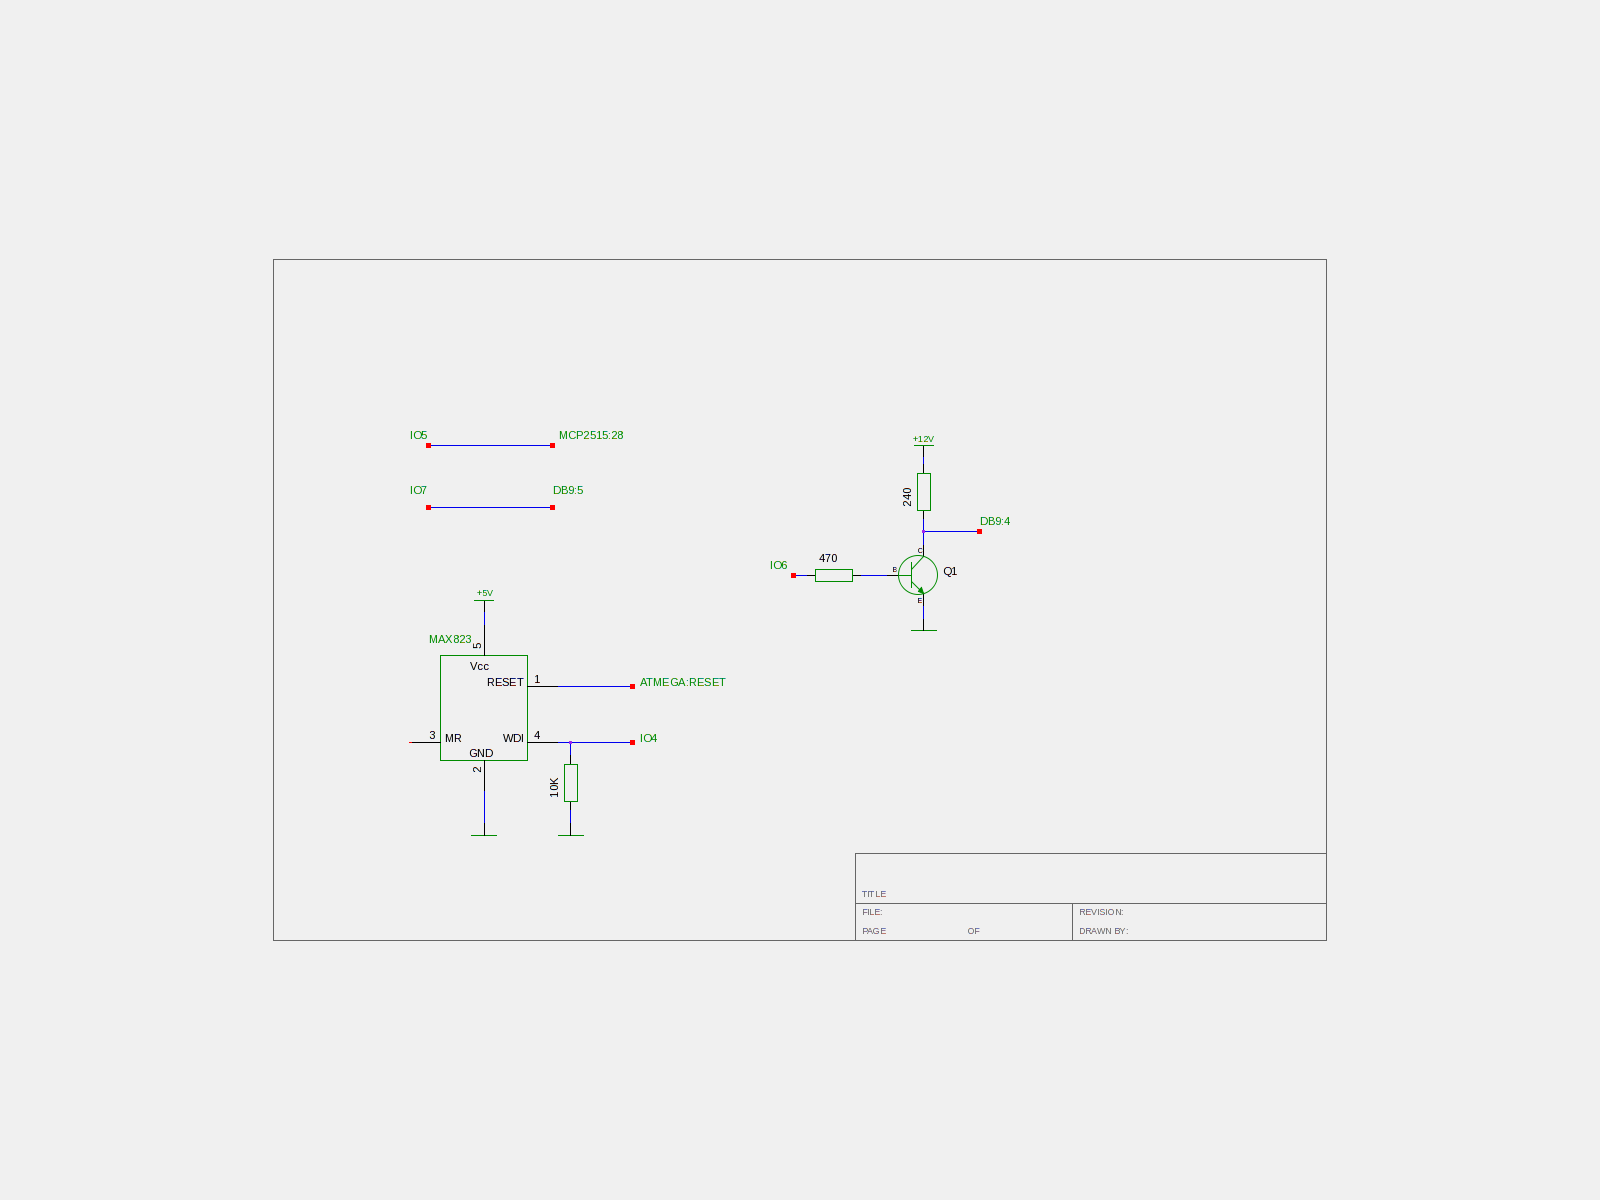
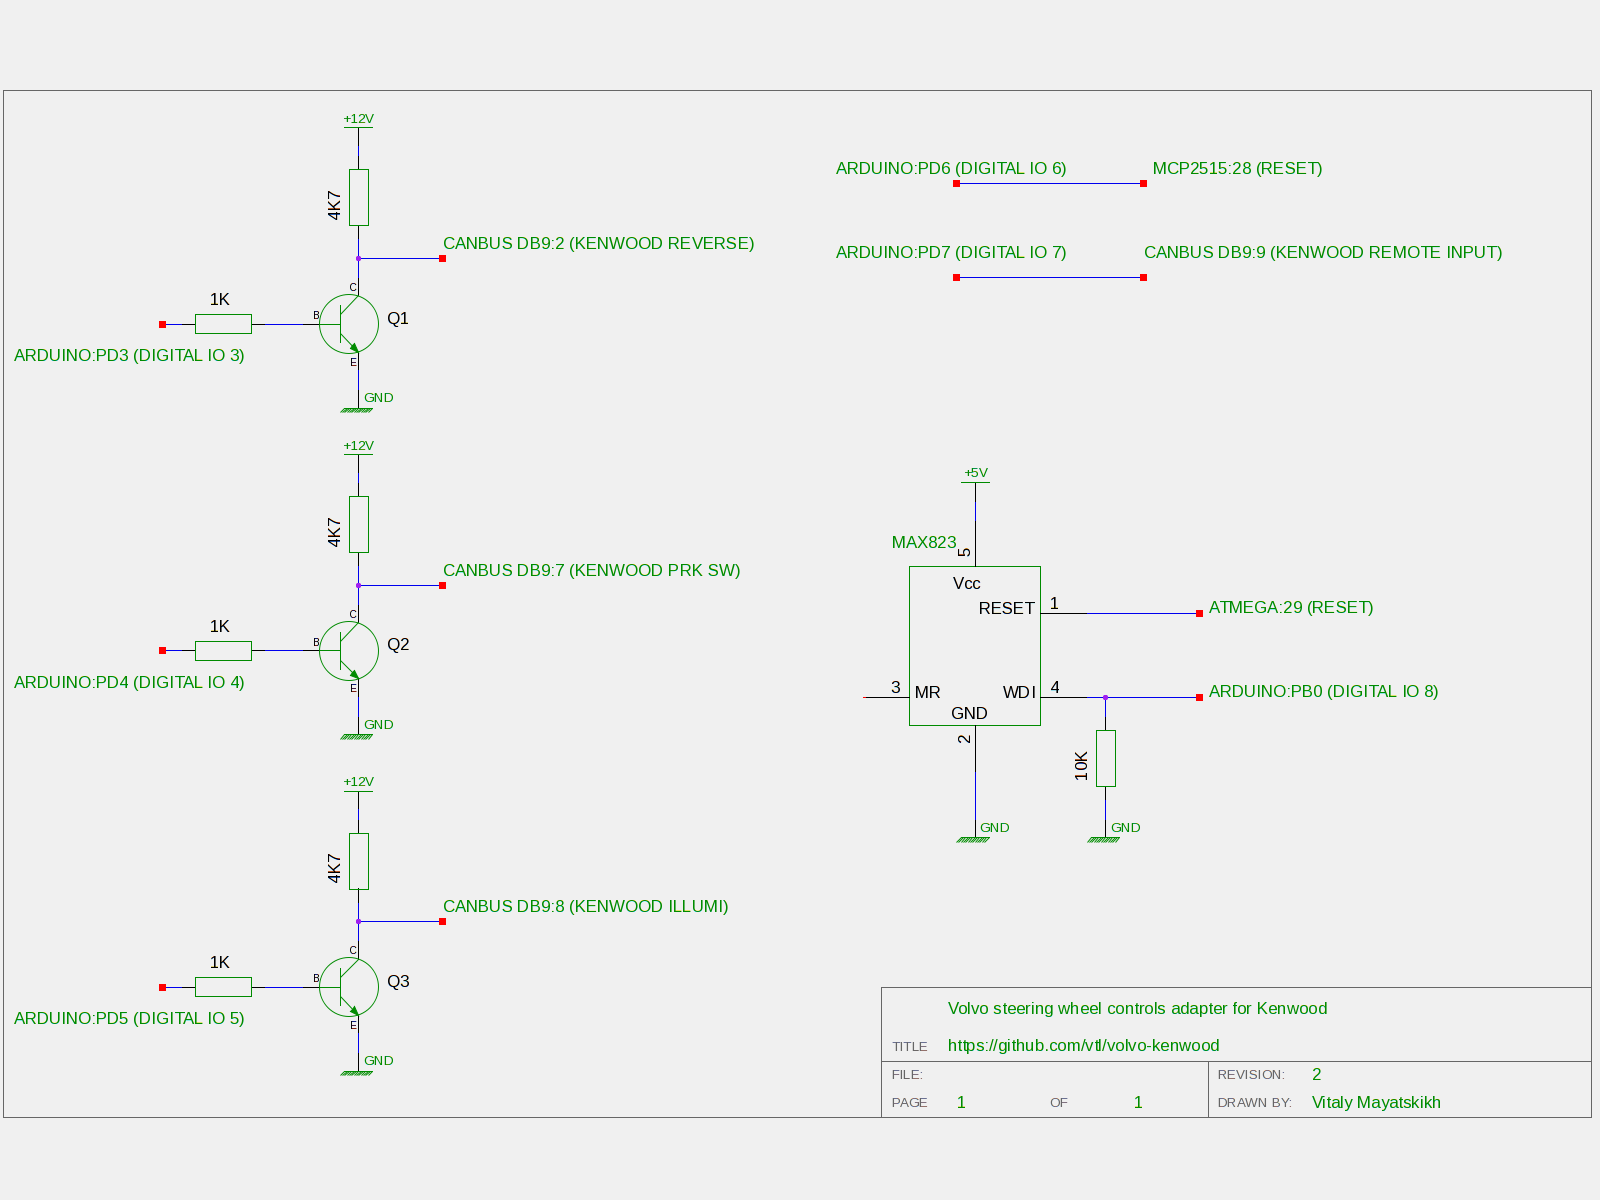
Update notes, schematics and pics.

diff --git a/README.md b/README.md
@@ -6,13 +6,13 @@ Volvo steering wheel buttons interface for Kenwood head unit
 Hardware used:
 - Seeeduino (clone of Arduino Duemilanove)
 - Seeeduino CANBUS shield
-- 5v to 12v transistor amplifier: 5v is what AVR can drive, 12v is what needed for dimmer control
+- 5v to 12v transistor amplifiers for controls: 5v is what AVR can drive, 12v is what Kenwood
+  needs for dimmer control, park switch and reverse
 - MAX823LEUT circuit supervisor: power line quality monitor, reset signal generator, watchdog
 
-Dimmer and MAX823 are optional. Without hardware watchdog Arduino hangs quite often at start,
-hardware watchdog is highly recommended.
+Controls and MAX823 are optional. Without hardware watchdog my Arduino board hangs quite often on
+start, hardware watchdog is highly recommended.
 
 Arduino's bootloader doesn't make it fast enough before watchdog triggers (~1.6s), so if you want to
 use MAX823 make sure you burn faster bootloader (third-party or original one with reduced retries
-count) or avoid bootloader at all and upload control software through ISP programmer. Do not connect
-MAX823 WDI pin (4) until you upload/burn software.
+count) or avoid bootloader at all and upload control software through ISP programmer.
